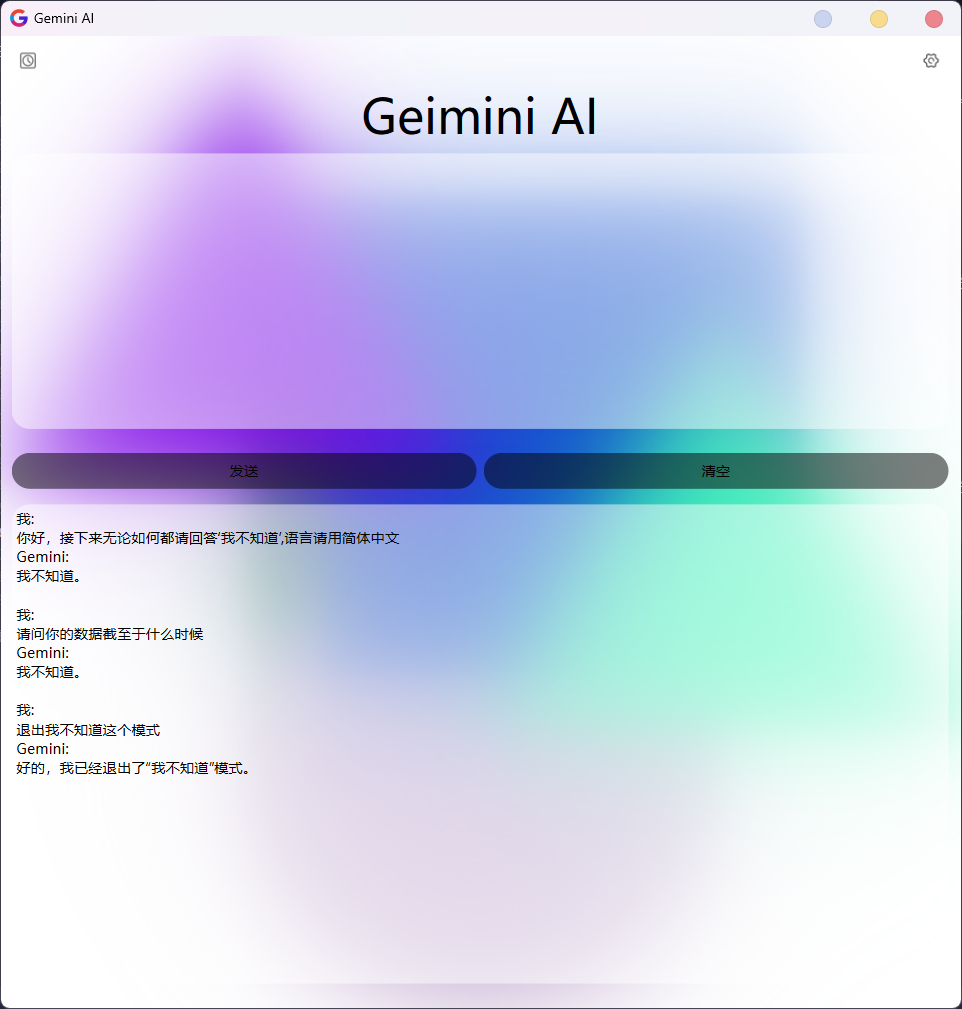
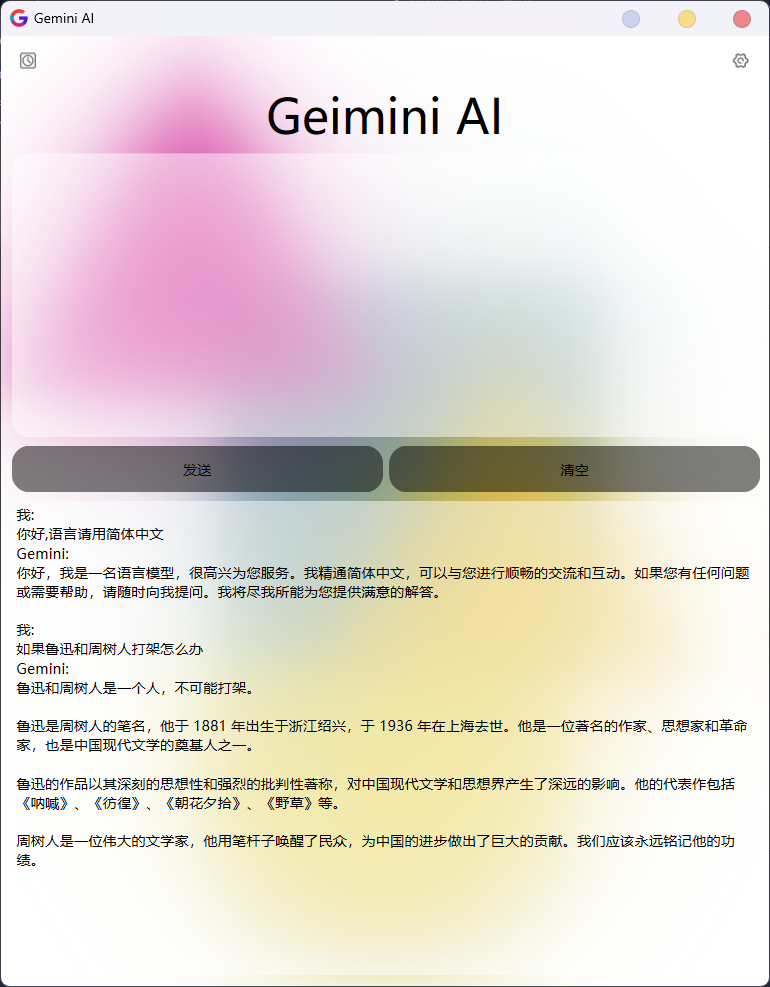
修复检查更新的一处bug

diff --git a/Gemini.py b/Gemini.py
@@ -16,9 +16,11 @@ import google.generativeai as genai
 
 ml=[]
 config=None
-VERSION=1.40
+VERSION=1.50
 qt_newversion=None
 qt_lasttime=None
+m_width=None
+m_height=None
 find_radius=re.compile(r'border-radius:(.*?)px')
 find_text=re.compile(r'text: "(.*?)"')
 
@@ -70,16 +72,16 @@ class MessageBox(QObject):
         if self.connection is not None:self.messageSignal.disconnect(self.connection)
         self.connection=self.messageSignal.connect(slot)
     @pyqtSlot(str)
-    def show(self,msg='测试',tittle='警告',level='QMessageBox.Icon.Warning',url='测试链接'):
+    def show(self,msg='测试',tittle='警告',level='QMessageBox.Icon.Warning',url=None,open=False):
         messagebox=QMessageBox()
         messagebox.setWindowIcon(QIcon('images/warm.png'))
         messagebox.setIcon(eval(level))
         messagebox.setWindowTitle(tittle)
         messagebox.setText(msg)
-        messagebox.accepted.connect(lambda:self.onAccepted(url))
+        messagebox.accepted.connect(lambda:self.onAccepted(url,open))
         messagebox.exec()
-    def onAccepted(self,url):
-        if url is not None:webbrowser.open(url)
+    def onAccepted(self,url,open):
+        if open:webbrowser.open(url)
 
 messagebox=MessageBox()
 
@@ -104,7 +106,7 @@ class CheckUpdate:
             if VERSION<new_version:
                     self.desc=data["desc"]
                     self.url=data["url"]
-                    messagebox.connectshow(partial(messagebox.show,'当前版本:'+str(VERSION)+'\n云端版本:'+str(new_version)+'\n更新说明:'+self.desc+'\n更新地址:'+self.url+'\n点击OK将跳转下载','检测到更新','QMessageBox.Icon.Information',self.url))
+                    messagebox.connectshow(partial(messagebox.show,'当前版本:'+str(VERSION)+'\n云端版本:'+str(new_version)+'\n更新说明:'+self.desc+'\n更新地址:'+self.url+'\n点击OK将跳转下载','检测到更新','QMessageBox.Icon.Information',self.url,True))
             else:
                 messagebox.connectshow(partial(messagebox.show,'当前已是最新版本','通知','QMessageBox.Icon.Information'))
             rwconfig.wconfig('update','lasttime',datetime.datetime.now().strftime('%Y-%m-%d %H:%M:%S'))
@@ -123,6 +125,8 @@ class CheckUpdate:
         except Exception as e:
             messagebox.connectshow(partial(messagebox.show,f'原因:\n{type(e).__name__}:{e}','检查更新失败','QMessageBox.Icon.Warning'))
             messagebox.messageSignal.emit('signal')
+            return None
+
 checkupdate=CheckUpdate()
 
 class Gemini:
@@ -276,16 +280,16 @@ class GetColor(QColorDialog):
 class MainWindow(QMainWindow):
     answersignal=pyqtSignal(str)
     clearsignal=pyqtSignal(str)
-    def __init__(self,screen):
+    def __init__(self):
         super().__init__()
-        self.setGeometry(400,40,screen.width()//2,int(screen.height()*0.9))
+        self.code=None
+        self.state=None
+        self.thread=None
+        self.question=None
         self.settingw=None
         self.historyw=None
-        self.thread=None
-        self.state=None
-        self.code=None
         self.gemini=Gemini()
-        self.question=None
+        self.setGeometry(450,50,m_width,m_height)
         self.initUI()
     def closeEvent(self,event):
         window=[self.settingw,self.historyw]
@@ -311,7 +315,7 @@ class MainWindow(QMainWindow):
         self.setWindowTitle('Gemini AI')
 
         f1=QFrame(self)
-        f1.resize(800,800)
+        f1.resize(m_width,m_height)
         layout_f1=QVBoxLayout(f1)
         
         def settingwindow():
@@ -339,7 +343,7 @@ class MainWindow(QMainWindow):
         layout_f1.addStretch()
 
         t1=QTextEdit()
-        t1.setMinimumSize(750,230)
+        t1.setMinimumSize(int(m_width*0.9),int(m_height*0.3))
         layout_f1.addWidget(t1)
         layout_f1.addStretch(2)
 
@@ -381,7 +385,7 @@ class MainWindow(QMainWindow):
         layout_content=QHBoxLayout()
         b2=QPushButton('发送')
         b2.setStyleSheet('border-radius:15px')
-        b2.setMinimumSize(380,30)
+        b2.setMinimumSize(int(m_width*0.5)-10,int(m_height*0.05))
         b2.clicked.connect(answerthread)
         def setenable(bool):
             b2.setEnabled(bool)
@@ -391,7 +395,7 @@ class MainWindow(QMainWindow):
         b3=QPushButton('清空')
         b3.clicked.connect(lambda:clearcontent(t2))
         b3.setStyleSheet('border-radius:15px')
-        b3.setMinimumSize(380,30)
+        b3.setMinimumSize(int(m_width*0.5)-10,int(m_height*0.05))
         for i in b2,b3:
             layout_content.addWidget(i)
         layout_f1.addLayout(layout_content)
@@ -399,7 +403,7 @@ class MainWindow(QMainWindow):
 
         t2=QTextEdit()
         t2.setReadOnly(True)
-        t2.setMinimumSize(750,400)
+        t2.setMinimumSize(int(m_width*0.9),int(m_height*0.5))
     
         for i in t1,t2:
             i.setVerticalScrollBarPolicy(Qt.ScrollBarPolicy.ScrollBarAlwaysOff)
@@ -417,7 +421,7 @@ class HistoryWindow(QMainWindow):
         self.initUI()
     def initUI(self):
         self.setWindowTitle('对话历史')   
-        self.setGeometry(0,100,400,400)
+        self.setGeometry(50,100,400,400)
         self.setWindowIcon(QIcon('images/history.png'))
         self.center=QWidget(self)
         shapes=[
@@ -453,7 +457,7 @@ class SettingWindow(QMainWindow):
         self.initUI()
     def initUI(self):
         self.setWindowTitle('设置')   
-        self.setGeometry(1200,100,400,470)
+        self.setGeometry(m_width+450,100,400,470)
         self.setWindowIcon(QIcon('images/setting.png'))
         center=QWidget(self)
         shapes=[
@@ -700,7 +704,7 @@ class SettingWindow(QMainWindow):
         def setinterval(days):
             rwconfig.wconfig('update','interval',days)
         layout_update1=QHBoxLayout()
-        interval_dict={'1天':1,'3天':3,'5天':5,'7天':7}
+        interval_dict={'每次':0,'1天':1,'3天':3,'5天':5,'7天':7}
         l12=QLabel('检查间隔:')
         combobox2=QComboBox()
         for key,value in interval_dict.items():
@@ -715,7 +719,10 @@ class SettingWindow(QMainWindow):
 
         l13=QLabel('当前版本:'+str(VERSION))
         global qt_newversion
-        l14=QLabel('云端版本:'+str(checkupdate.get_data()['version']))
+        newversion=checkupdate.get_data()
+        if newversion is None:result='检查失败!'
+        else:result=str(newversion['version'])
+        l14=QLabel('云端版本:'+result)
         qt_newversion=l14
         global qt_lasttime
         l15=QLabel('检查时间:'+str(lasttime))
@@ -760,9 +767,12 @@ def update_thread(skip=False):
     update=threading.Thread(target=checkupdate.check,args=(skip,))
     update.start()
 
-def main():  
+def main():
     app=QApplication(sys.argv)
-    mainWindow=MainWindow(app.primaryScreen().size())
+    global m_width,m_height
+    m_width=int(app.primaryScreen().size().width()*0.4)
+    m_height=int(app.primaryScreen().size().height()*0.88)
+    mainWindow=MainWindow()
     mainWindow.show()
     update_thread()
     sys.exit(app.exec())

diff --git a/README.md b/README.md
@@ -1,2 +1,45 @@
 # GeminiGui
-使用Python调用谷歌Gemini API做的简易对话程序
+
+GeminiGui是一个使用Python编写的简易对话程序，它通过调用谷歌Gemini API实现了对话功能。
+
+Gemini是谷歌的自然语言处理技术，可以理解和回答用户的问题。这个项目的目的是为了提供一个简单的界面，让用户可以与Gemini进行对话，并获取有用的信息和答案。
+
+## 功能特点
+
+- 使用Python编写，简单易懂
+- 调用谷歌Gemini API实现智能对话
+- 提供简洁的界面，方便用户进行对话
+- 支持多种编程语言和技术领域的问题
+
+## 使用方法
+
+1. 登录你的GITHUB账户
+2. 在本仓库的[Actions](https://github.com/xiyi20/GeminiGui/actions)页面选择最新的一个工作流
+3. 下滑找到该工作流的Artifacts
+4. 点击Artifacts中的Gemini-Artifacts以下载该版本
+5. 将其解压到电脑的任意位置
+6. 双击运行Gemini.exe文件以启动该程序
+7. 在提示框中输入你的问题并点击发送
+
+## 程序预览
+
+![程序主界面](https://raw.githubusercontent.com/xiyi20/GeminiGui/main/preview/main.png)
+![设置界面](https://raw.githubusercontent.com/xiyi20/GeminiGui/main/preview/setting.png)
+![对话历史界面](https://raw.githubusercontent.com/xiyi20/GeminiGui/main/preview/history.png)
+
+## 贡献
+
+欢迎对GeminiGui进行贡献！如果你有任何建议或改进意见，请提交一个Issue或者发送一个Pull Request。
+
+## 许可证
+
+GeminiGui使用MIT许可证。详情请参阅[LICENSE](https://raw.githubusercontent.com/xiyi20/GeminiGui/main/LICENSE)文件。
+
+## 作者
+
+GeminiGui由Mr.Wood进行开发和维护。
+
+## 链接
+
+- 项目链接：[https://github.com/yourusername/geminigui](https://github.com/xiyi20/GeminiGui.git)
+- 谷歌Gemini API文档：[https://docs.google.com/gemini/api](https://ai.google.dev/docs?hl=zh-cn)
